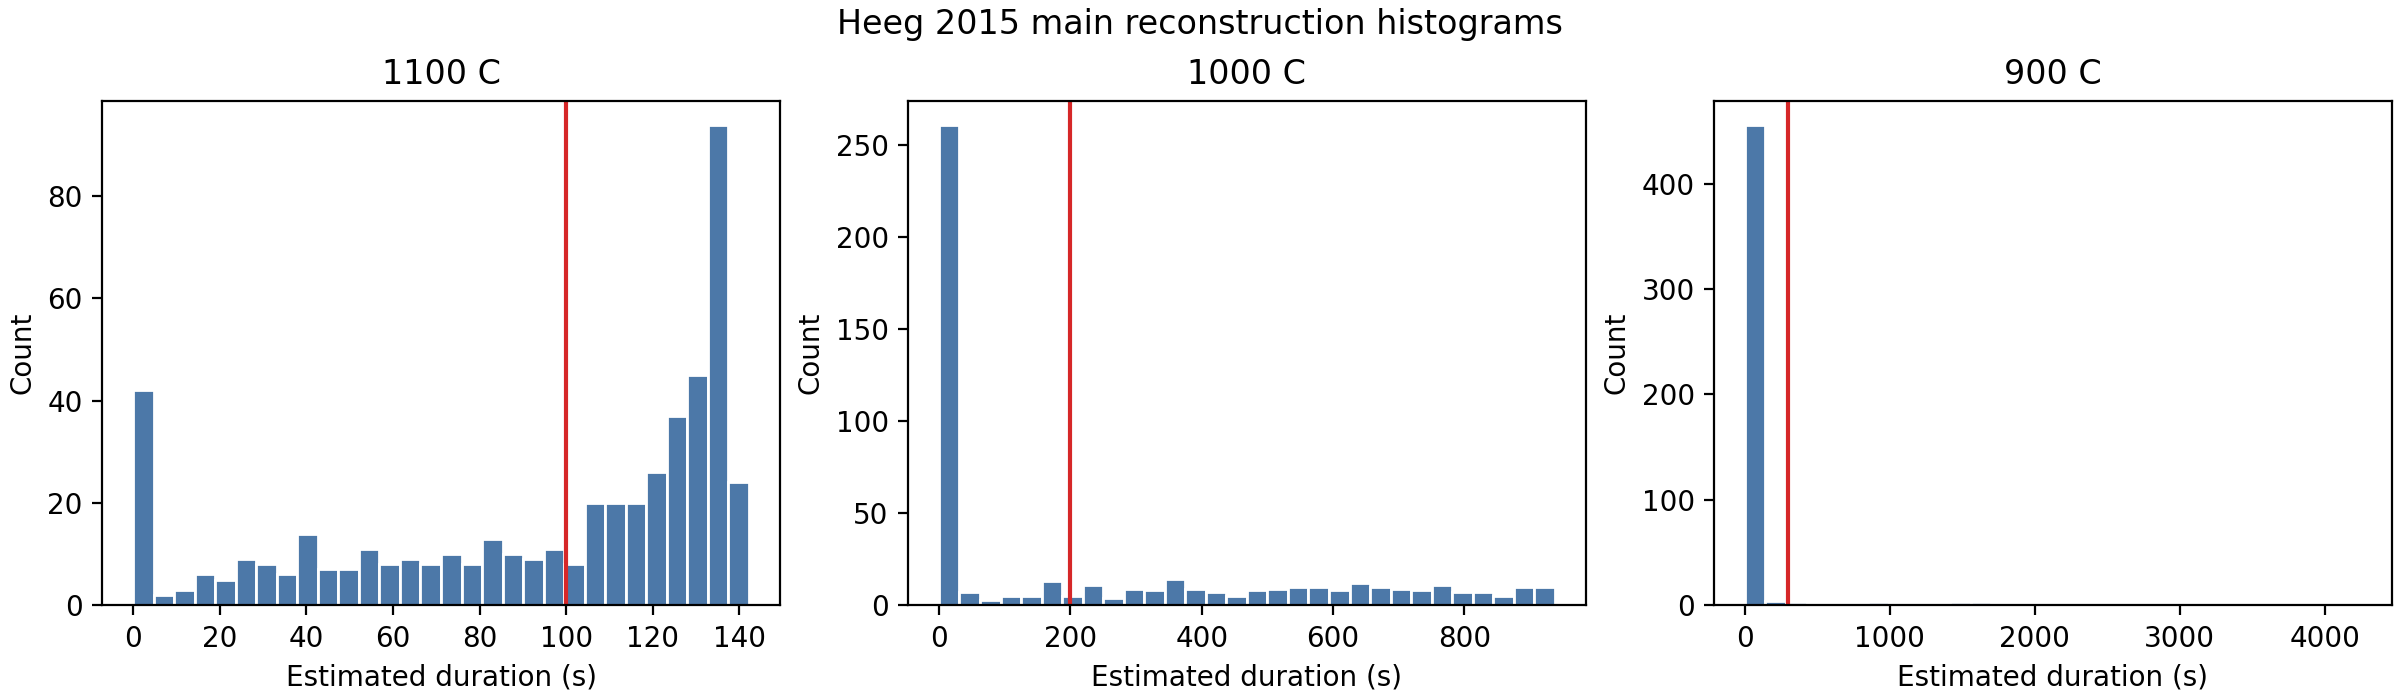
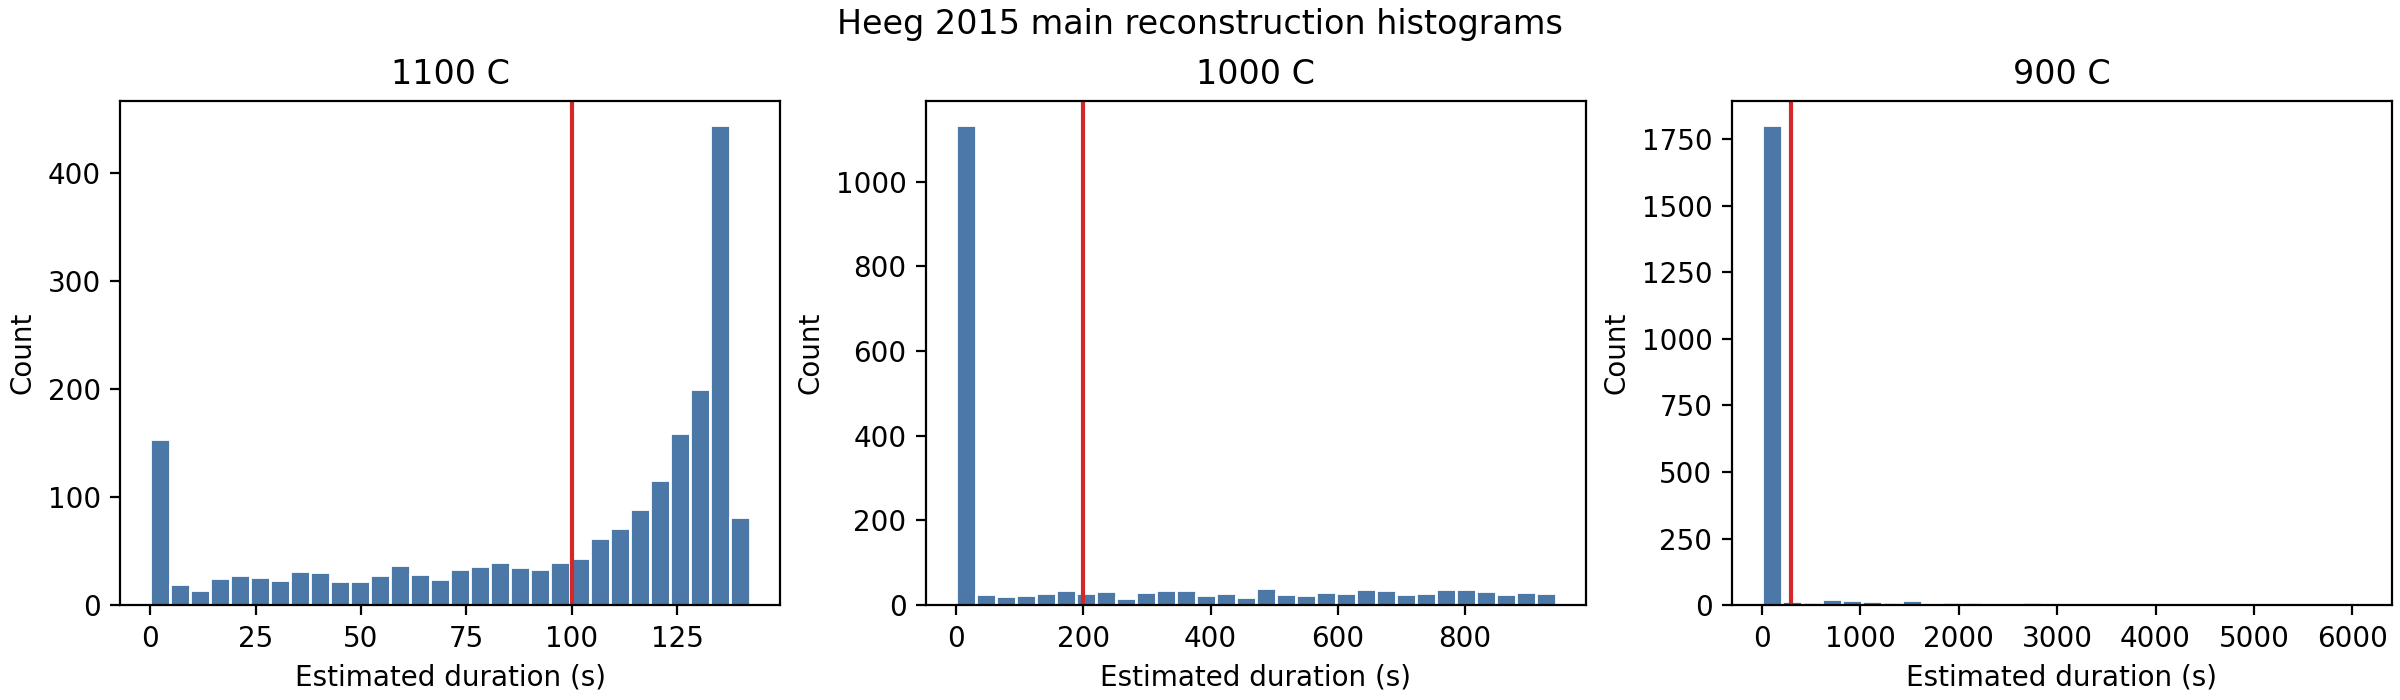
feat: reproduce heeg fig3 fig4 histograms

diff --git a/scripts/reproduce_heeg2015.py b/scripts/reproduce_heeg2015.py
@@ -11,6 +11,7 @@ if str(SRC) not in sys.path:
     sys.path.insert(0, str(SRC))
 
 from thermal_history.experiments import (  # noqa: E402
+    fig3_fig4_histogram_outputs,
     main_reconstruction_estimates,
     main_reconstruction_summary,
     regularization_sweep,
@@ -43,8 +44,12 @@ def write_output_readme(output_dir: Path, samples: int) -> None:
                 "Files:",
                 "",
                 "- `main_reconstruction_summary.csv`: five-interval reconstruction statistics.",
+                "- `fig3_regularized_lls_summary.csv`: regularized LLS statistics for Fig. 3.",
+                "- `fig4_total_time_constrained_summary.csv`: total-time constrained statistics for Fig. 4.",
                 "- `regularization_sweep.csv`: alpha sweep and sensor 21 end-crystallinity checks.",
                 "- `spike_reconstruction_summary.csv`: short spike reconstruction statistics.",
+                "- `fig3_regularized_lls_histograms.png`: reproduction of Fig. 3 histogram style.",
+                "- `fig4_total_time_constrained_histograms.png`: reproduction of Fig. 4 histogram style.",
                 "- `fig_main_histograms.png`: histograms comparable to the paper's main examples.",
                 "- `fig_regularization_sweep.png`: duration sensitivity to regularization.",
                 "- `fig_fend_reconstruction.png`: reconstructed sensor 21 crystallinity.",
@@ -63,13 +68,32 @@ def main() -> None:
 
     main_estimates = main_reconstruction_estimates(samples=args.samples, seed=args.seed, method="nnls")
     main_summary = main_reconstruction_summary(samples=args.samples, seed=args.seed, method="nnls")
+    fig_histograms = fig3_fig4_histogram_outputs(samples=args.samples, seed=args.seed)
     sweep = regularization_sweep(samples=max(50, args.samples // 5), seed=args.seed + 1)
     spike = spike_reconstruction_summary(samples=args.samples, seed=args.seed + 2)
 
     main_summary.to_csv(args.output / "main_reconstruction_summary.csv", index=False)
+    fig_histograms["fig3_regularized_lls"].summary.to_csv(
+        args.output / "fig3_regularized_lls_summary.csv",
+        index=False,
+    )
+    fig_histograms["fig4_total_time_constrained"].summary.to_csv(
+        args.output / "fig4_total_time_constrained_summary.csv",
+        index=False,
+    )
     sweep.to_csv(args.output / "regularization_sweep.csv", index=False)
     spike.to_csv(args.output / "spike_reconstruction_summary.csv", index=False)
 
+    save_main_histograms(
+        fig_histograms["fig3_regularized_lls"].estimates,
+        args.output / "fig3_regularized_lls_histograms.png",
+        title=fig_histograms["fig3_regularized_lls"].title,
+    )
+    save_main_histograms(
+        fig_histograms["fig4_total_time_constrained"].estimates,
+        args.output / "fig4_total_time_constrained_histograms.png",
+        title=fig_histograms["fig4_total_time_constrained"].title,
+    )
     save_main_histograms(main_estimates, args.output / "fig_main_histograms.png")
     save_regularization_sweep(sweep, args.output / "fig_regularization_sweep.png")
     save_fend_reconstruction(sweep, args.output / "fig_fend_reconstruction.png")

diff --git a/src/thermal_history/experiments.py b/src/thermal_history/experiments.py
@@ -1,5 +1,6 @@
 from __future__ import annotations
 
+from dataclasses import dataclass
 from collections.abc import Callable, Sequence
 
 import numpy as np
@@ -10,6 +11,7 @@ from thermal_history.paper_data import CELSIUS_TO_KELVIN, get_sensor
 from thermal_history.solvers import (
     add_multiplicative_noise,
     solve_nnls,
+    solve_tikhonov,
     solve_tikhonov_total_time,
 )
 
@@ -18,6 +20,14 @@ MAIN_TEMPERATURES_C = np.array([700, 800, 900, 1000, 1100], dtype=float)
 MAIN_DURATIONS_S = np.array([600, 400, 300, 200, 100], dtype=float)
 SPIKE_RECON_TEMPERATURES_C = np.array([900, 1000, 1100], dtype=float)
 SPIKE_BASE_DURATIONS_S = np.array([1000, 590], dtype=float)
+
+
+@dataclass(frozen=True)
+class HistogramReconstruction:
+    name: str
+    title: str
+    estimates: np.ndarray
+    summary: pd.DataFrame
 
 
 def _temperatures_k(temperatures_c: Sequence[float]) -> np.ndarray:
@@ -66,6 +76,13 @@ def main_reconstruction_estimates(
 
     if method == "nnls":
         solve = lambda noisy: solve_nnls(sensors, temperatures_k, noisy)
+    elif method == "regularized_tikhonov":
+        solve = lambda noisy: solve_tikhonov(
+            sensors,
+            temperatures_k,
+            noisy,
+            alpha=1e-11,
+        )
     elif method == "constrained_tikhonov":
         solve = lambda noisy: solve_tikhonov_total_time(
             sensors,
@@ -88,6 +105,39 @@ def main_reconstruction_summary(
 ) -> pd.DataFrame:
     estimates = main_reconstruction_estimates(samples, seed, method, noise_fraction)
     return _summarize_by_interval(MAIN_TEMPERATURES_C, estimates)
+
+
+def fig3_fig4_histogram_outputs(
+    samples: int = 2000,
+    seed: int = 2015,
+    noise_fraction: float = 0.05,
+) -> dict[str, HistogramReconstruction]:
+    fig3_estimates = main_reconstruction_estimates(
+        samples=samples,
+        seed=seed,
+        method="regularized_tikhonov",
+        noise_fraction=noise_fraction,
+    )
+    fig4_estimates = main_reconstruction_estimates(
+        samples=samples,
+        seed=seed,
+        method="constrained_tikhonov",
+        noise_fraction=noise_fraction,
+    )
+    return {
+        "fig3_regularized_lls": HistogramReconstruction(
+            name="fig3_regularized_lls",
+            title="Fig. 3 reproduction: regularized LLS",
+            estimates=fig3_estimates,
+            summary=_summarize_by_interval(MAIN_TEMPERATURES_C, fig3_estimates),
+        ),
+        "fig4_total_time_constrained": HistogramReconstruction(
+            name="fig4_total_time_constrained",
+            title="Fig. 4 reproduction: total-time constrained LLS",
+            estimates=fig4_estimates,
+            summary=_summarize_by_interval(MAIN_TEMPERATURES_C, fig4_estimates),
+        ),
+    }
 
 
 def regularization_sweep(

diff --git a/tests/test_experiments.py b/tests/test_experiments.py
@@ -1,6 +1,7 @@
 import numpy as np
 
 from thermal_history.experiments import (
+    fig3_fig4_histogram_outputs,
     main_reconstruction_summary,
     regularization_sweep,
     spike_reconstruction_summary,
@@ -13,6 +14,20 @@ def test_main_reconstruction_summary_contains_expected_intervals():
     assert list(summary["temperature_c"]) == [700, 800, 900, 1000, 1100]
     assert summary.loc[summary["temperature_c"] == 1100, "mean_s"].iloc[0] > 50.0
     assert summary.loc[summary["temperature_c"] == 1100, "mean_s"].iloc[0] < 150.0
+
+
+def test_fig3_and_fig4_histogram_outputs_are_distinct_reconstruction_methods():
+    outputs = fig3_fig4_histogram_outputs(samples=50, seed=21)
+
+    assert set(outputs) == {"fig3_regularized_lls", "fig4_total_time_constrained"}
+    assert outputs["fig3_regularized_lls"].estimates.shape == (50, 5)
+    assert outputs["fig4_total_time_constrained"].estimates.shape == (50, 5)
+    assert np.any(outputs["fig3_regularized_lls"].estimates < 0.0)
+    np.testing.assert_allclose(
+        outputs["fig4_total_time_constrained"].estimates.sum(axis=1),
+        1600.0,
+        atol=1e-5,
+    )
 
 
 def test_regularization_sweep_reports_sensor_21_end_crystallinity():

diff --git a/src/thermal_history/plotting.py b/src/thermal_history/plotting.py
@@ -9,7 +9,11 @@ import pandas as pd
 from thermal_history.experiments import MAIN_DURATIONS_S, MAIN_TEMPERATURES_C
 
 
-def save_main_histograms(estimates: np.ndarray, output_path: Path) -> None:
+def save_main_histograms(
+    estimates: np.ndarray,
+    output_path: Path,
+    title: str = "Heeg 2015 main reconstruction histograms",
+) -> None:
     fig, axes = plt.subplots(1, 3, figsize=(12, 3.5), constrained_layout=True)
     selected = [4, 3, 2]
     for axis, index in zip(axes, selected, strict=True):
@@ -18,7 +22,7 @@ def save_main_histograms(estimates: np.ndarray, output_path: Path) -> None:
         axis.set_title(f"{MAIN_TEMPERATURES_C[index]:.0f} C")
         axis.set_xlabel("Estimated duration (s)")
         axis.set_ylabel("Count")
-    fig.suptitle("Heeg 2015 main reconstruction histograms")
+    fig.suptitle(title)
     fig.savefig(output_path, dpi=200)
     plt.close(fig)
 

diff --git a/outputs/heeg2015/README.md b/outputs/heeg2015/README.md
@@ -1,12 +1,16 @@
 # Heeg 2015 Reproduction Outputs
 
-Monte Carlo samples per primary experiment: 500
+Monte Carlo samples per primary experiment: 2000
 
 Files:
 
 - `main_reconstruction_summary.csv`: five-interval reconstruction statistics.
+- `fig3_regularized_lls_summary.csv`: regularized LLS statistics for Fig. 3.
+- `fig4_total_time_constrained_summary.csv`: total-time constrained statistics for Fig. 4.
 - `regularization_sweep.csv`: alpha sweep and sensor 21 end-crystallinity checks.
 - `spike_reconstruction_summary.csv`: short spike reconstruction statistics.
+- `fig3_regularized_lls_histograms.png`: reproduction of Fig. 3 histogram style.
+- `fig4_total_time_constrained_histograms.png`: reproduction of Fig. 4 histogram style.
 - `fig_main_histograms.png`: histograms comparable to the paper's main examples.
 - `fig_regularization_sweep.png`: duration sensitivity to regularization.
 - `fig_fend_reconstruction.png`: reconstructed sensor 21 crystallinity.
